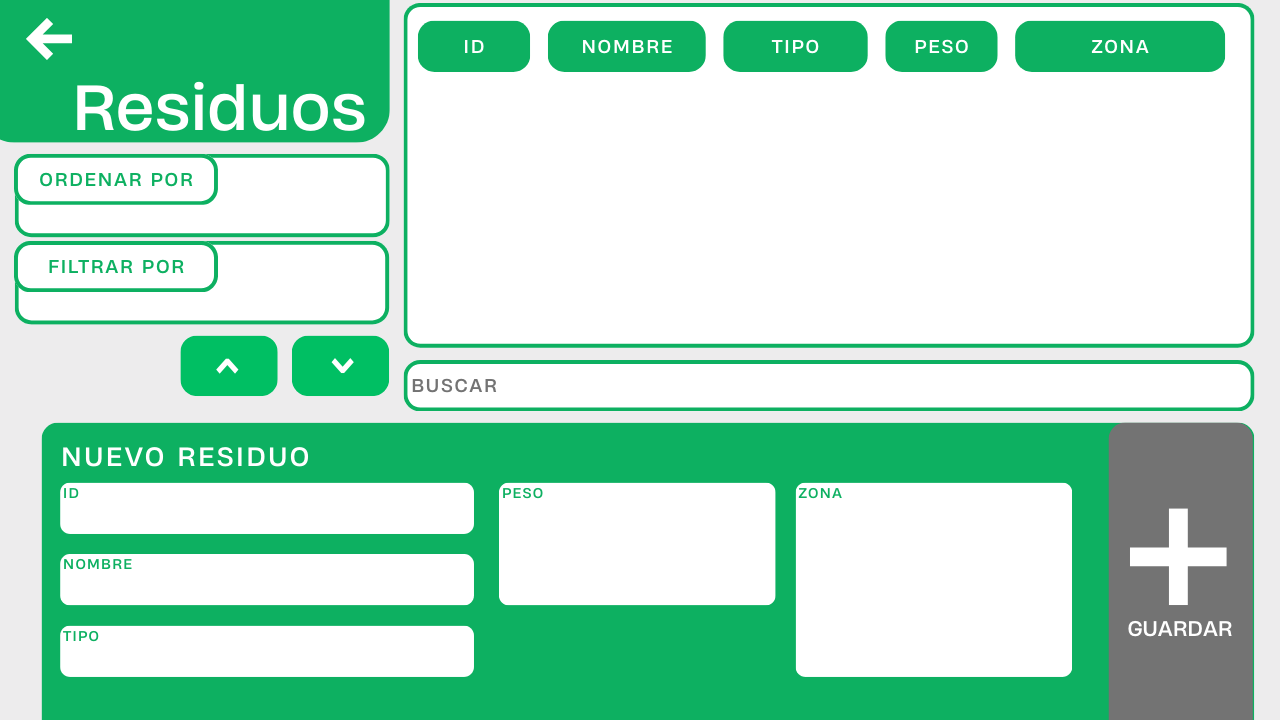
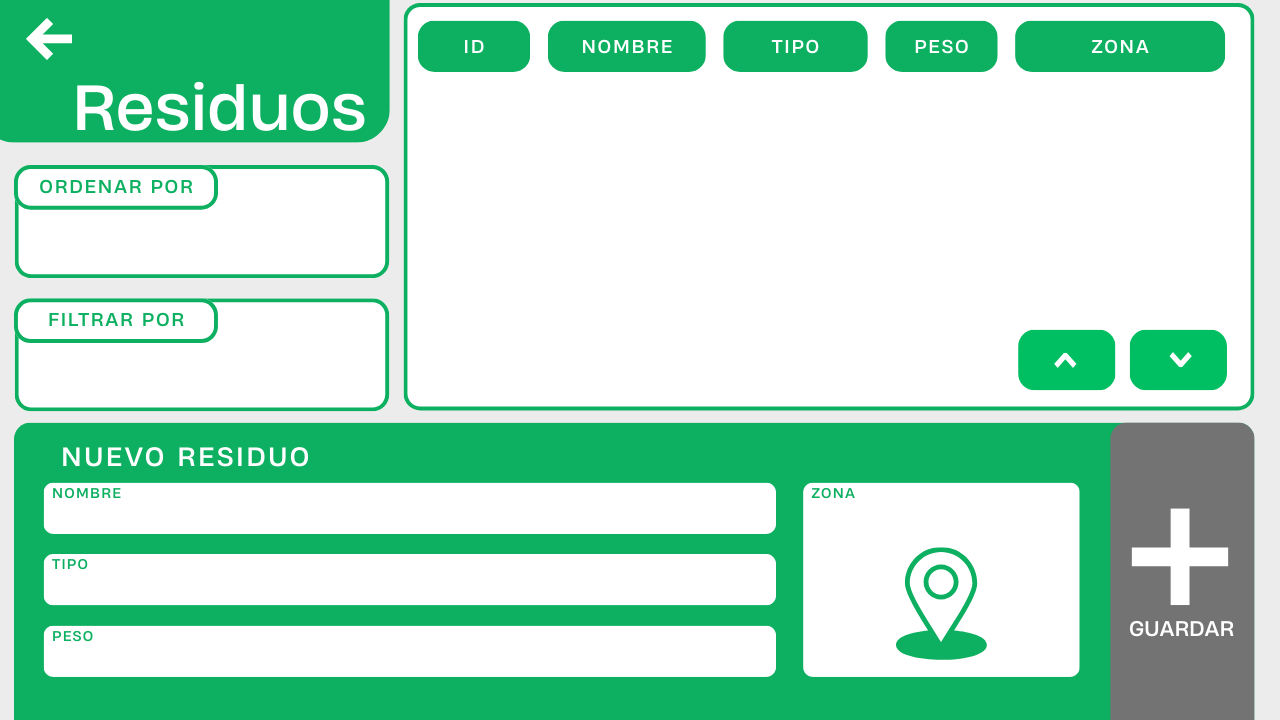
Interacción para agregar Residuos Implementada. Cambios en Fondo ResiduoScene.

diff --git a/src/controladores/ResiduosController.java b/src/controladores/ResiduosController.java
@@ -4,15 +4,23 @@
  */
 package controladores;
 
+import ecotrack.Zona;
 import java.io.IOException;
+import java.net.URL;
+import java.util.ResourceBundle;
 import javafx.event.ActionEvent;
 import javafx.fxml.FXML;
 import javafx.fxml.FXMLLoader;
+import javafx.fxml.Initializable;
 import javafx.scene.Node;
 import javafx.scene.Parent;
 import javafx.scene.Scene;
 import javafx.scene.control.Button;
+import javafx.scene.control.ChoiceBox;
+import javafx.scene.control.Label;
+import javafx.scene.control.TextField;
 import javafx.scene.image.ImageView;
+import javafx.scene.paint.Color;
 import javafx.stage.Stage;
 
 /**
@@ -20,7 +28,7 @@ import javafx.stage.Stage;
  *
  * @author Dominic Izurrieta & Paúl Rodríguez
  */
-public class ResiduosController{
+public class ResiduosController implements Initializable{
 
     private Stage stage;
     private Scene scene;
@@ -31,7 +39,75 @@ public class ResiduosController{
     
     @FXML
     private Button returnButton;
+    
+    @FXML
+    private Label avisoLabel;
 
+    @FXML
+    private TextField nombreField;
+    @FXML
+    private TextField tipoField;
+    @FXML
+    private TextField pesoField;
+    @FXML
+    private ChoiceBox<String> ordenamientoChoiceBox;
+    @FXML
+    private ChoiceBox<String> filtradoChoiceBox;
+    @FXML
+    private ChoiceBox<String> zonaChoiceBox;
+    
+    private String[] opcionesFiltrado = {};
+    private String[] opcionesOrdenado = {};
+    private String[] zonas = {"Fortin / Monte Sinai", "Vergeles", "Sauces / Samanes", "Bastion", "Via a la Costa 1", "Via a la Costa 2", "Urdesa / Kennedy", "San Felipe / Mapasingue", "Samborondon", "Prosperina / Ceibos", "Portete", "Parque Centenario", "Isla Trinitaria", "Isla Mocoli", "Guasmo", "FAE", "Entre Rios / La Puntilla", "Centro"};
+    
+    private String nombreResiduo;
+    private String tipoResiduo;
+    private int valorPeso;
+    private Zona zonaResiduo;
+    
+    @Override
+    public void initialize(URL arg0, ResourceBundle arg1){
+        zonaChoiceBox.getItems().addAll(zonas);
+        zonaChoiceBox.setOnAction(this::establecerZona);
+        
+        ordenamientoChoiceBox.getItems().addAll(opcionesOrdenado);
+        ordenamientoChoiceBox.setOnAction(this::elegirOrdenamiento);
+        
+        filtradoChoiceBox.getItems().addAll(opcionesFiltrado);
+        filtradoChoiceBox.setOnAction(this::elegirFiltrado);
+    }
+    
+    public void establecerZona(ActionEvent event){
+        String zona = zonaChoiceBox.getValue();
+        System.out.println(zona);
+    }
+    
+    public void elegirOrdenamiento(ActionEvent event){
+        String ordenamiento = ordenamientoChoiceBox.getValue();
+    }
+    
+    public void elegirFiltrado(ActionEvent event){
+        String filtrado = filtradoChoiceBox.getValue();
+    }
+    
+    public void agregarResiduo(ActionEvent event){
+        try{
+            valorPeso = Integer.parseInt(pesoField.getText());
+        }
+        catch (NumberFormatException e){
+            avisoLabel.setText("Por favor, solo ingrese números en Peso");
+            avisoLabel.setTextFill(Color.RED);
+        }
+        catch (Exception e){
+            avisoLabel.setText(e.getMessage());
+        }
+        nombreResiduo = nombreField.getText();
+        tipoResiduo = tipoField.getText();
+        System.out.println(valorPeso);
+        System.out.println(nombreResiduo);
+        System.out.println(tipoResiduo);
+    }
+    
     @FXML
     private void switchToSceneMain(ActionEvent event) throws IOException{
             Parent root = FXMLLoader.load(getClass().getResource("/vistas/ecotrack.fxml"));
